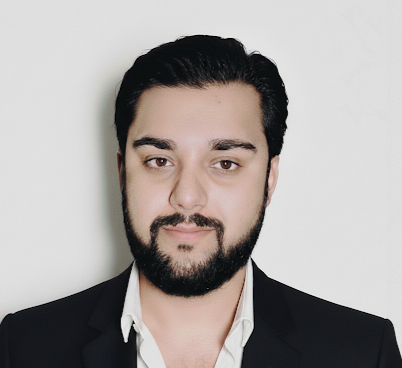
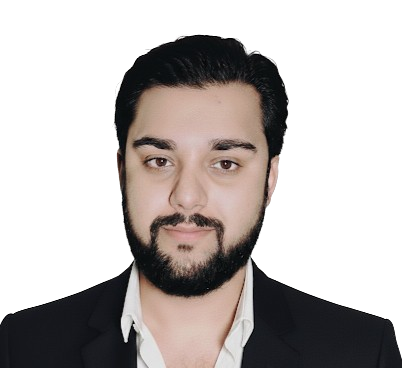
profile picture improved + better blur of glass morphism

diff --git a/css/style.css b/css/style.css
@@ -2,6 +2,12 @@
 /* Import locally hosted Google Fonts (Inter and Orbitron) */
 @import url("../assets/vendor/css/fonts.css");
 
+@property --angle {
+    syntax: '<angle>';
+    initial-value: 0deg;
+    inherits: false;
+}
+
 :root {
     --primary-glow: #00ffff;
     --secondary-glow: #ff00ff;
@@ -61,15 +67,47 @@ body {
     z-index: 100;
     display: flex;
     gap: 8px;
-    background: rgba(255, 255, 255, 0.03);
+    background: rgba(255, 255, 255, 0.04);
     padding: 12px 24px;
     border-radius: 50px;
-    backdrop-filter: blur(25px) saturate(180%);
-    -webkit-backdrop-filter: blur(25px) saturate(180%);
-    border: 1px solid rgba(255, 255, 255, 0.08);
+    backdrop-filter: blur(40px) saturate(200%);
+    -webkit-backdrop-filter: blur(40px) saturate(200%);
+    border: 1px solid rgba(255, 255, 255, 0.1);
     box-shadow:
-        0 10px 30px rgba(0, 0, 0, 0.1),
-        inset 0 0 20px rgba(255, 255, 255, 0.02);
+        0 10px 30px rgba(0, 0, 0, 0.15),
+        inset 0 0 20px rgba(255, 255, 255, 0.03);
+}
+
+.nav-bar::before,
+.nav-bar::after {
+    content: "";
+    position: absolute;
+    inset: -2px;
+    border-radius: 50px;
+    background: conic-gradient(from var(--angle), transparent 40%, var(--primary-glow) 50%, transparent 60%);
+    z-index: -1;
+    animation: rotate 4s linear infinite;
+    padding: 2px;
+    -webkit-mask: linear-gradient(#fff 0 0) content-box, linear-gradient(#fff 0 0);
+    mask: linear-gradient(#fff 0 0) content-box, linear-gradient(#fff 0 0);
+    -webkit-mask-composite: xor;
+    mask-composite: exclude;
+    pointer-events: none;
+}
+
+.nav-bar::after {
+    background: conic-gradient(from var(--angle), transparent 40%, var(--secondary-glow) 50%, transparent 60%);
+    animation: rotate 4s linear infinite reverse;
+}
+
+@keyframes rotate {
+    0% {
+        --angle: 0deg;
+    }
+
+    100% {
+        --angle: 360deg;
+    }
 }
 
 /* Mobile Menu Toggle Button */
@@ -78,8 +116,8 @@ body {
     top: 20px;
     right: 20px;
     z-index: 200;
-    background: rgba(255, 255, 255, 0.03);
-    border: 1px solid rgba(255, 255, 255, 0.1);
+    background: rgba(255, 255, 255, 0.04);
+    border: 1px solid rgba(255, 255, 255, 0.12);
     border-radius: 12px;
     width: 50px;
     height: 50px;
@@ -88,7 +126,7 @@ body {
     justify-content: center;
     align-items: center;
     gap: 4px;
-    backdrop-filter: blur(25px);
+    backdrop-filter: blur(40px);
     cursor: pointer;
     transition: all 0.3s ease;
     padding: 0;
@@ -201,15 +239,15 @@ body.menu-open {
 }
 
 .liquid-card {
-    background: rgba(255, 255, 255, 0.015);
-    backdrop-filter: blur(30px) saturate(180%);
-    -webkit-backdrop-filter: blur(30px) saturate(180%);
-    border: 1px solid rgba(255, 255, 255, 0.04);
+    background: rgba(15, 15, 20, 0.35);
+    backdrop-filter: blur(60px) saturate(200%);
+    -webkit-backdrop-filter: blur(60px) saturate(200%);
+    border: 1px solid rgba(255, 255, 255, 0.06);
     padding: 60px 40px;
     border-radius: 30px;
     box-shadow:
-        0 20px 50px rgba(0, 0, 0, 0.3),
-        inset 0 0 30px rgba(255, 255, 255, 0.02);
+        0 20px 50px rgba(0, 0, 0, 0.5),
+        inset 0 0 30px rgba(255, 255, 255, 0.03);
     transition: all 0.5s cubic-bezier(0.25, 1, 0.5, 1);
     max-width: 1200px;
     width: 100%;
@@ -281,7 +319,7 @@ body.menu-open {
 }
 
 .hero-content .subtitle {
-    font-size: clamp(1.1rem, 2vw, 1.3rem);
+    font-size: clamp(1.2rem, 2.2vw, 1.5rem);
     color: var(--text-muted);
     margin-bottom: 40px;
     font-weight: 400;
@@ -359,7 +397,7 @@ body.menu-open {
 
 .section-title {
     font-family: "Orbitron", sans-serif;
-    font-size: clamp(2.5rem, 5vw, 4rem);
+    font-size: clamp(2.8rem, 5.5vw, 4.5rem);
     text-align: center;
     margin-bottom: 80px;
     background: linear-gradient(45deg,
@@ -383,12 +421,13 @@ body.menu-open {
 
 .skill-card,
 .project-card {
-    background: rgba(255, 255, 255, 0.02);
+    background: rgba(15, 15, 20, 0.3);
     padding: 40px 30px;
-    border: 1px solid rgba(255, 255, 255, 0.06);
+    border: 1px solid rgba(255, 255, 255, 0.08);
     border-radius: 20px;
     transition: all 0.4s ease;
-    backdrop-filter: blur(15px);
+    backdrop-filter: blur(40px) saturate(180%);
+    -webkit-backdrop-filter: blur(40px) saturate(180%);
     position: relative;
     overflow: hidden;
 }
@@ -441,7 +480,7 @@ body.menu-open {
 
 .skill-card h3,
 .project-card h3 {
-    font-size: 1.3rem;
+    font-size: 1.5rem;
     margin-bottom: 16px;
     color: var(--text-color);
     font-weight: 600;
@@ -450,8 +489,8 @@ body.menu-open {
 .skill-card p,
 .project-card p {
     color: var(--text-muted);
-    line-height: 1.7;
-    font-size: 1rem;
+    line-height: 1.8;
+    font-size: 1.125rem;
 }
 
 
@@ -593,12 +632,13 @@ body.menu-open {
 }
 
 .certification-card {
-    background: rgba(255, 255, 255, 0.02);
-    border: 1px solid rgba(255, 255, 255, 0.06);
+    background: rgba(15, 15, 20, 0.3);
+    border: 1px solid rgba(255, 255, 255, 0.08);
     border-radius: 15px;
     padding: 25px 20px;
     transition: all 0.3s ease;
-    backdrop-filter: blur(10px);
+    backdrop-filter: blur(40px) saturate(180%);
+    -webkit-backdrop-filter: blur(40px) saturate(180%);
     position: relative;
     overflow: hidden;
 }
@@ -634,20 +674,20 @@ body.menu-open {
 }
 
 .certification-title {
-    font-size: 1.1rem;
+    font-size: 1.25rem;
     font-weight: 600;
     color: var(--text-color);
     margin-bottom: 8px;
 }
 
 .certification-issuer {
-    font-size: 0.9rem;
+    font-size: 1.05rem;
     color: var(--text-muted);
     margin-bottom: 5px;
 }
 
 .certification-date {
-    font-size: 0.8rem;
+    font-size: 0.95rem;
     color: var(--text-muted);
 }
 
@@ -770,13 +810,14 @@ body.menu-open {
 }
 
 .tool-item {
-    background: rgba(255, 255, 255, 0.02);
-    border: 1px solid rgba(255, 255, 255, 0.06);
+    background: rgba(15, 15, 20, 0.3);
+    border: 1px solid rgba(255, 255, 255, 0.08);
     border-radius: 12px;
     padding: 20px 15px;
     text-align: center;
     transition: all 0.3s ease;
-    backdrop-filter: blur(10px);
+    backdrop-filter: blur(30px) saturate(180%);
+    -webkit-backdrop-filter: blur(30px) saturate(180%);
     position: relative;
     overflow: hidden;
 }
@@ -909,7 +950,7 @@ body.menu-open {
 }
 
 .tool-name {
-    font-size: 0.9rem;
+    font-size: 1rem;
     color: var(--text-color);
     font-weight: 500;
 }
@@ -1975,9 +2016,9 @@ img {
 .contact-subtitle {
     text-align: center;
     color: var(--text-muted);
-    font-size: 1.1rem;
+    font-size: 1.25rem;
     margin-bottom: 50px;
-    line-height: 1.6;
+    line-height: 1.7;
 }
 
 .contact-methods {
@@ -1988,13 +2029,14 @@ img {
 }
 
 .contact-method {
-    background: rgba(255, 255, 255, 0.02);
-    border: 1px solid rgba(255, 255, 255, 0.06);
+    background: rgba(255, 255, 255, 0.035);
+    border: 1px solid rgba(255, 255, 255, 0.08);
     border-radius: 20px;
     padding: 40px 30px;
     text-align: center;
     transition: all 0.4s ease;
-    backdrop-filter: blur(15px);
+    backdrop-filter: blur(30px) saturate(180%);
+    -webkit-backdrop-filter: blur(30px) saturate(180%);
     position: relative;
     overflow: hidden;
 }
@@ -2043,7 +2085,7 @@ img {
 }
 
 .contact-details h3 {
-    font-size: 1.3rem;
+    font-size: 1.4rem;
     color: var(--text-color);
     margin-bottom: 12px;
     font-weight: 600;
@@ -2052,7 +2094,7 @@ img {
 .contact-link {
     color: var(--primary-glow);
     text-decoration: none;
-    font-size: 1rem;
+    font-size: 1.075rem;
     font-weight: 500;
     transition: all 0.3s ease;
     display: inline-block;
@@ -2210,7 +2252,7 @@ img {
 }
 
 .contact-details h3 {
-    font-size: 1.3rem;
+    font-size: 1.4rem;
     color: var(--text-color);
     margin-bottom: 12px;
     font-weight: 600;
@@ -2218,7 +2260,7 @@ img {
 
 .contact-link {
     color: var(--text-muted);
-    font-size: 1rem;
+    font-size: 1.075rem;
     text-decoration: none;
     transition: all 0.3s ease;
     display: inline-block;
@@ -2322,5 +2364,5 @@ a.contact-link:hover {
 .tools-section h3 {
     color: var(--primary-glow);
     margin-bottom: 30px;
-    font-size: 1.5rem;
+    font-size: 1.7rem;
 }
